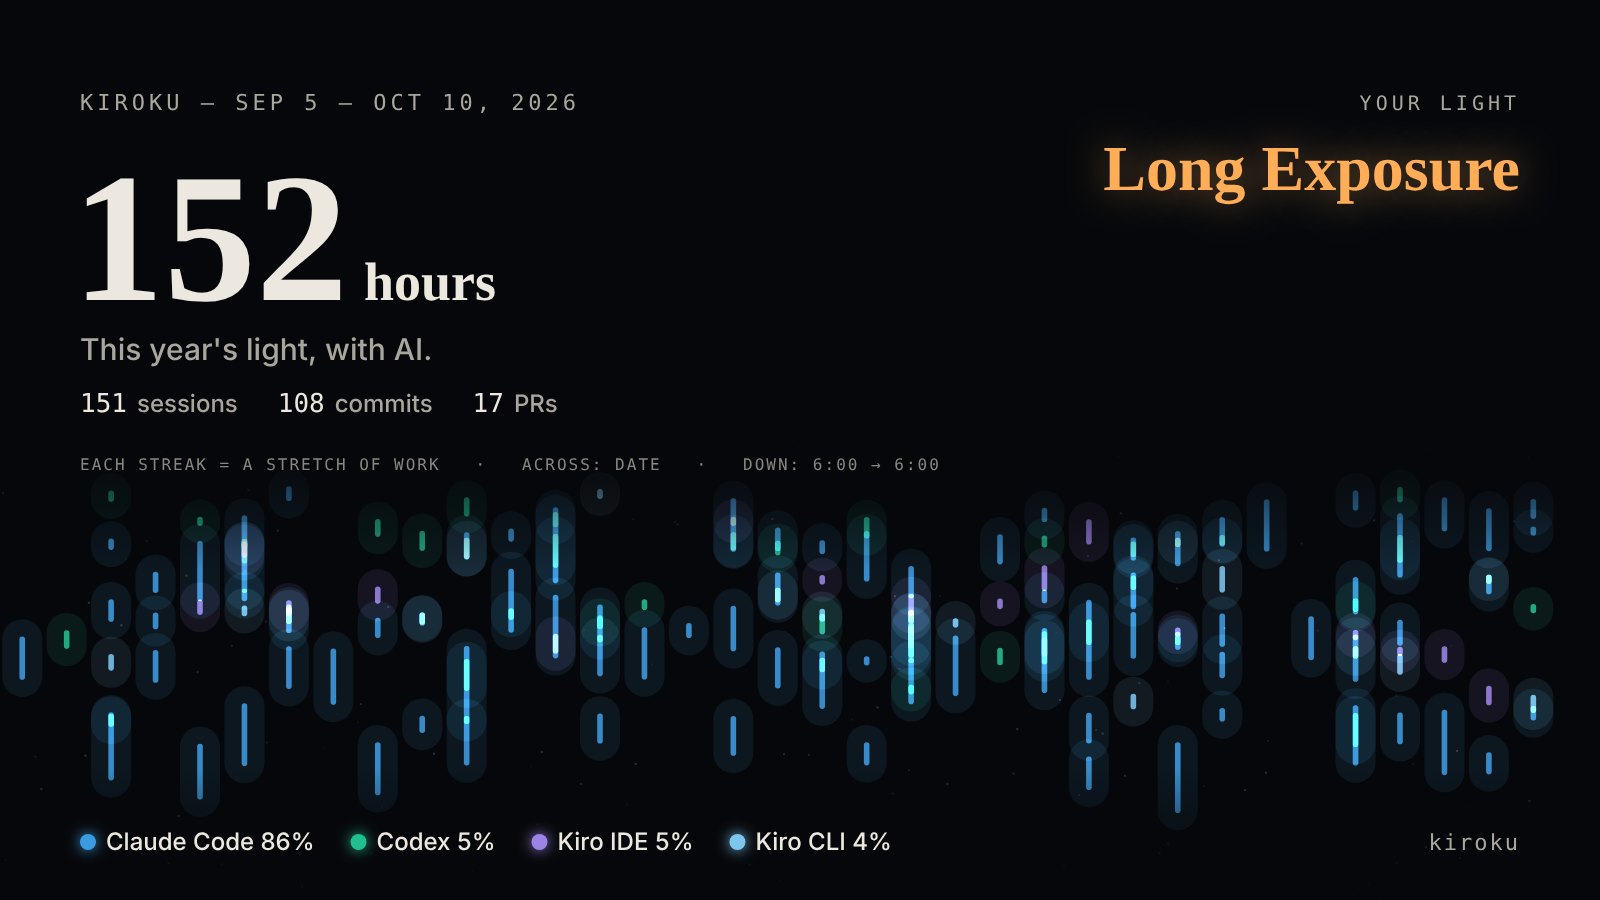
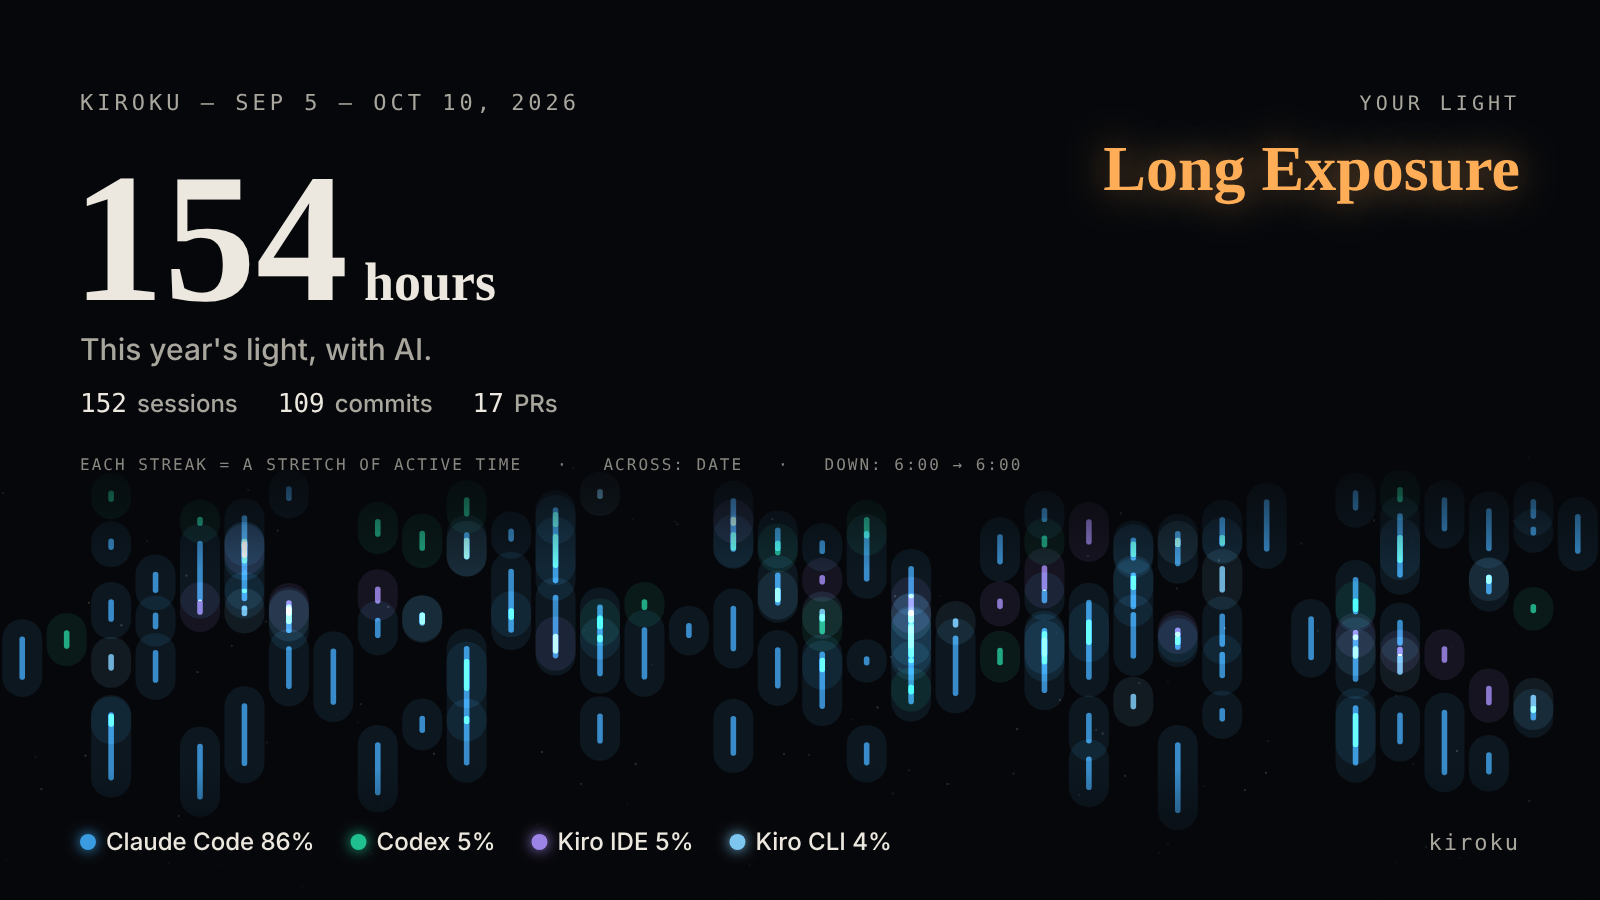
Year in review: plainer wording, Bracketing, no double-counted mornings
- Say what a streak measures: active time estimated from the history's
  timestamps, including time the AI ran on its own, rather than "how
  long you worked". The share image reads "a stretch of active time".
- Say that the thresholds for your light are rough guides.
- Rename "Refocus" to "Bracketing" (a few takes, keeping the best) and
  say that corrections are guessed from the wording, so the one light
  built on corrections reads as a way of working rather than a fault.
- Count the hour of day (Daybreak, busiest hour) from time when any
  session was active, in 5-minute slots, so sessions run in parallel
  no longer count twice.

diff --git a/internal/web/js/year.js b/internal/web/js/year.js
@@ -21,13 +21,13 @@ function yearData(y){
   const on = new Set(); ms.forEach(m => (m.days || []).forEach((d, i) => { if (d.active > 0){ const [Y, M, D] = m.start.split("-").map(Number); on.add(key(new Date(Y, M-1, D+i))); } }));
   // 光の筋：[列（日）, 上端, 下端（列の中の 0〜1）, 色]。列は朝 6 時で区切るので、深夜の作業は前の日の列の下のほうに写る
   const y0 = new Date(y, 0, 1)/1000, y1 = new Date(y+1, 0, 1)/1000, nd = Math.round((y1 - y0)/86400), day0 = new Date(y, 0, 1);
-  const lines = [], hist = new Array(24).fill(0); let segMin = 0, nses = 0, nprompts = 0;
+  const lines = [], hist = new Array(24).fill(0), slots = new Set(); let segMin = 0, nses = 0, nprompts = 0; // slots: 動いていた 5 分枠（並列を二重に数えない）
   DATA.forEach(s => {
     const mine = s.start >= y0 && s.start < y1; if (mine){ nses++; nprompts += s.nPrompts || 0; }
     s.segs.forEach(([a, b]) => {
       if (mine) segMin += (b - a)/60;
       a = Math.max(a, y0); b = Math.min(b, y1); if (b <= a) return;
-      for (let t = a; t < b; t += 300) hist[new Date(t*1000).getHours()] += Math.min(300, b - t)/60;
+      for (let i = Math.floor(a/300), j = Math.ceil(b/300); i < j; i++) slots.add(i);
       while (a < b){
         const t = new Date(a*1000), d = new Date(t.getFullYear(), t.getMonth(), t.getDate() - (t.getHours() < 6 ? 1 : 0)), c0 = new Date(d.getFullYear(), d.getMonth(), d.getDate(), 6)/1000, c1 = new Date(d.getFullYear(), d.getMonth(), d.getDate()+1, 6)/1000, e = Math.min(b, c1);
         const col = Math.round((new Date(d.getFullYear(), d.getMonth(), d.getDate()) - day0)/864e5);
@@ -36,6 +36,7 @@ function yearData(y){
       }
     });
   });
+  slots.forEach(i => hist[new Date(i*300000).getHours()] += 5);
   const ht = hist.reduce((a, v) => a + v, 0) || 1, now = today0();
   return { y, nd, active, lines, agents, sessions: nses,
     morningPct: (hist[5] + hist[6] + hist[7] + hist[8])/ht*100, peak: hist.indexOf(Math.max(...hist)),
@@ -59,9 +60,9 @@ const LIGHTS = [
   {k: "burst", en: "Burst", m: "per", t: x => x.perSes >= 15,
    de: "You ask small and often, and move fast.",
    re: "15 or more prompts per session on average"},
-  {k: "focus", en: "Refocus", m: "fix", t: x => x.fix != null && x.fix >= 15,
-   de: "You keep adjusting until it is just right.",
-   re: "15% or more of prompts had a correction or interruption"},
+  {k: "focus", en: "Bracketing", m: "fix", t: x => x.fix != null && x.fix >= 15,
+   de: "You try a few takes and keep the best one.",
+   re: "15% or more of prompts look like a follow-up correction or came after an interruption (guessed from the wording)"},
   {k: "day", en: "Daylight", m: "peak", t: () => true,
    de: "You work with AI steadily through the day.",
    re: "None of the above"}];
@@ -112,7 +113,7 @@ function drawCard(){
   g.fillStyle = fade; g.fillRect(0, top, W, H - top);
   // 画像だけを見た人にも読めるよう、光の読み方を添える
   g.textAlign = "left"; g.textBaseline = "alphabetic"; g.fillStyle = ink2; g.globalAlpha = .8; g.font = `500 16px ${FONT.mono}`; ls("2px");
-  g.fillText("EACH STREAK = A STRETCH OF WORK   ·   ACROSS: DATE   ·   DOWN: 6:00 → 6:00", 80, top + 40); ls("0px"); g.globalAlpha = 1;
+  g.fillText("EACH STREAK = A STRETCH OF ACTIVE TIME   ·   ACROSS: DATE   ·   DOWN: 6:00 → 6:00", 80, top + 40); ls("0px"); g.globalAlpha = 1;
   g.textAlign = "left"; g.textBaseline = "alphabetic";
   const pt = x.partial;
   g.fillStyle = ink2; g.font = `500 22px ${FONT.mono}`; ls("4px");
@@ -157,7 +158,7 @@ function renderYear(){
   <p class="yrlead">Your active time with AI, drawn like a year-long exposure. Across is the date, down is the time of day (6:00 to 6:00 the next morning). Each stretch of active time is a streak of light, brighter where sessions overlapped.${pt ? ` Recorded up to ${dMD(pt)}.` : ""}</p>
   <div class="yrscroll"><div class="yrchart"><div class="yrax" aria-hidden="true">${hours}</div><canvas class="yrplate" id="yrplate" role="img" aria-label="${esc(`Active time in ${x.y} by date and time of day. Active time ${dur(x.active)}`)}"></canvas><div class="yrx" aria-hidden="true">${months}</div></div></div>
   <div class="yrleg">${x.agents.map(a => `<span><i style="background:${a.c}"></i>${esc((a.k))} ${Math.round(a.pct)}%</span>`).join("")}</div>
-  <div class="yrhow"><div><b>Length = how long you worked</b>Each streak is one stretch of active time in a session.</div>
+  <div class="yrhow"><div><b>Length = how long a session was active</b>Each streak is one stretch of active time in a session, estimated from the timestamps in the history. It includes time the AI ran on its own.</div>
     <div><b>Color = agent</b>Colors that start to mix show when you began using more than one.</div>
     <div><b>Dark bands = time off</b>Holidays and days off show up dark.</div></div>
 
@@ -171,7 +172,7 @@ function renderYear(){
   <div class="yrtype"><div class="yrtn"><span>${vt(name(L))}</span></div><div>
     <p class="yrtd">${L.de}</p>
     <dl class="yrev">${ev.map(([k, v]) => `<div><dt>${k}</dt><dd>${v}</dd></div>`).join("")}</dl>
-    <p class="note">${`Your light describes the shape of your year in photography terms. It is not a verdict. Why: ${L.re}`}${x.active < 600 ? " (based on little history, so take it lightly)" : ""}</p>
+    <p class="note">${`Your light describes the shape of your year in photography terms. It is not a verdict, and its thresholds are rough guides. Why: ${L.re}`}${x.active < 600 ? " (based on little history, so take it lightly)" : ""}</p>
     <details class="yrtypes"><summary>All six and how they are chosen</summary><ul>${LIGHTS.map(l => `<li><b>${name(l)}</b> — ${l.re}</li>`).join("")}</ul>
       <p class="note">The first one that matches, from the top, is chosen.</p></details></div></div>`;
   $("#yrsel").onchange = e => { yr.y = +e.target.value; renderYear(); };

diff --git a/docs/guide.md b/docs/guide.md
@@ -109,15 +109,15 @@ The old forms `kiroku --serve`, `--json`, `-o` and `--weekly` / `--monthly` have
 
     ![Year in review share image (dummy data)](year.png)
 
-  - Your light: the shape of your year, named in photography terms (not a verdict). The first match from the top is chosen. There are no scores, levels or rankings: the year in review describes how you worked, it does not grade you
+  - Your light: the shape of your year, named in photography terms (not a verdict). The first match from the top is chosen, and the thresholds are rough guides rather than measured cut-offs. There are no scores, levels or rankings: the year in review describes how you worked, it does not grade you
 
     | Your light | Rule |
     |---|---|
-    | Daybreak | 25% or more of active time is between 5:00 and 9:00 (compared using the total active stretches of sessions) |
+    | Daybreak | 25% or more of active time is between 5:00 and 9:00 (time when any session was active counts once, so sessions run in parallel are not counted twice) |
     | Multiple Exposure | 3 or more agents, each with 10% or more of active time |
     | Long Exposure | 45 minutes or more of active time per session, with 10 prompts or fewer on average |
     | Burst | 15 or more prompts per session on average |
-    | Refocus | 15% or more of prompts had a correction or interruption |
+    | Bracketing | 15% or more of prompts look like a follow-up correction or came after an interruption (guessed from the wording) |
     | Daylight | None of the above |
 - Opening details moves focus into them, and closing them returns focus to the bar or card you opened them from. When you move from one detail to another (a commit or session), "Back" takes you back. The browser's Back button closes the details (or goes back one step after moving between details) instead of leaving the page
 - Keyboard shortcuts: `←` `→` to move by week or month, `T` for this week or month, `W` `M` to switch between week and month, `/` to search, `+` `−` to zoom, `Y` to open the Year in review, `Esc` to close details, `G` (or the map button at the top right) to open the metrics guide, `?` (or the keyboard button at the top right) to show the shortcut list. `←` `→` don't change the period while details are open or while the focus is on a control that uses the arrow keys itself (such as the View toggle and the search box). With the keyboard, "Skip the calendar" (the first stop after the legend) jumps past the calendar's bars and marks to the summary. `Esc` closes an open "?" explanation first

diff --git a/CHANGELOG.md b/CHANGELOG.md
@@ -6,7 +6,7 @@ Notable changes to kiroku, in the style of [Keep a Changelog](https://keepachang
 
 ### Added
 
-- Year in review is back ("Year" after Week and Month, or `Y`): a year of active time drawn as streaks of light, your light (the shape of your year in photography terms) and a 1600×900 image to share with totals only, which now says how to read the streaks and fills its width from 4 weeks of history (was 8). It no longer has skill levels (Novice to Legendary), the four skill meters, or the under- and overexposed labels: it describes how you worked and doesn't score or rank you
+- Year in review is back ("Year" after Week and Month, or `Y`): a year of active time drawn as streaks of light, your light (the shape of your year in photography terms) and a 1600×900 image to share with totals only, which now says how to read the streaks and fills its width from 4 weeks of history (was 8). The light that was "Refocus" is now "Bracketing" (a few takes, keeping the best), and Daybreak now counts time when any session was active once instead of adding up sessions run in parallel. It no longer has skill levels (Novice to Legendary), the four skill meters, or the under- and overexposed labels: it describes how you worked and doesn't score or rank you
 
 ## v0.30.0 - 2026-10-10
 
